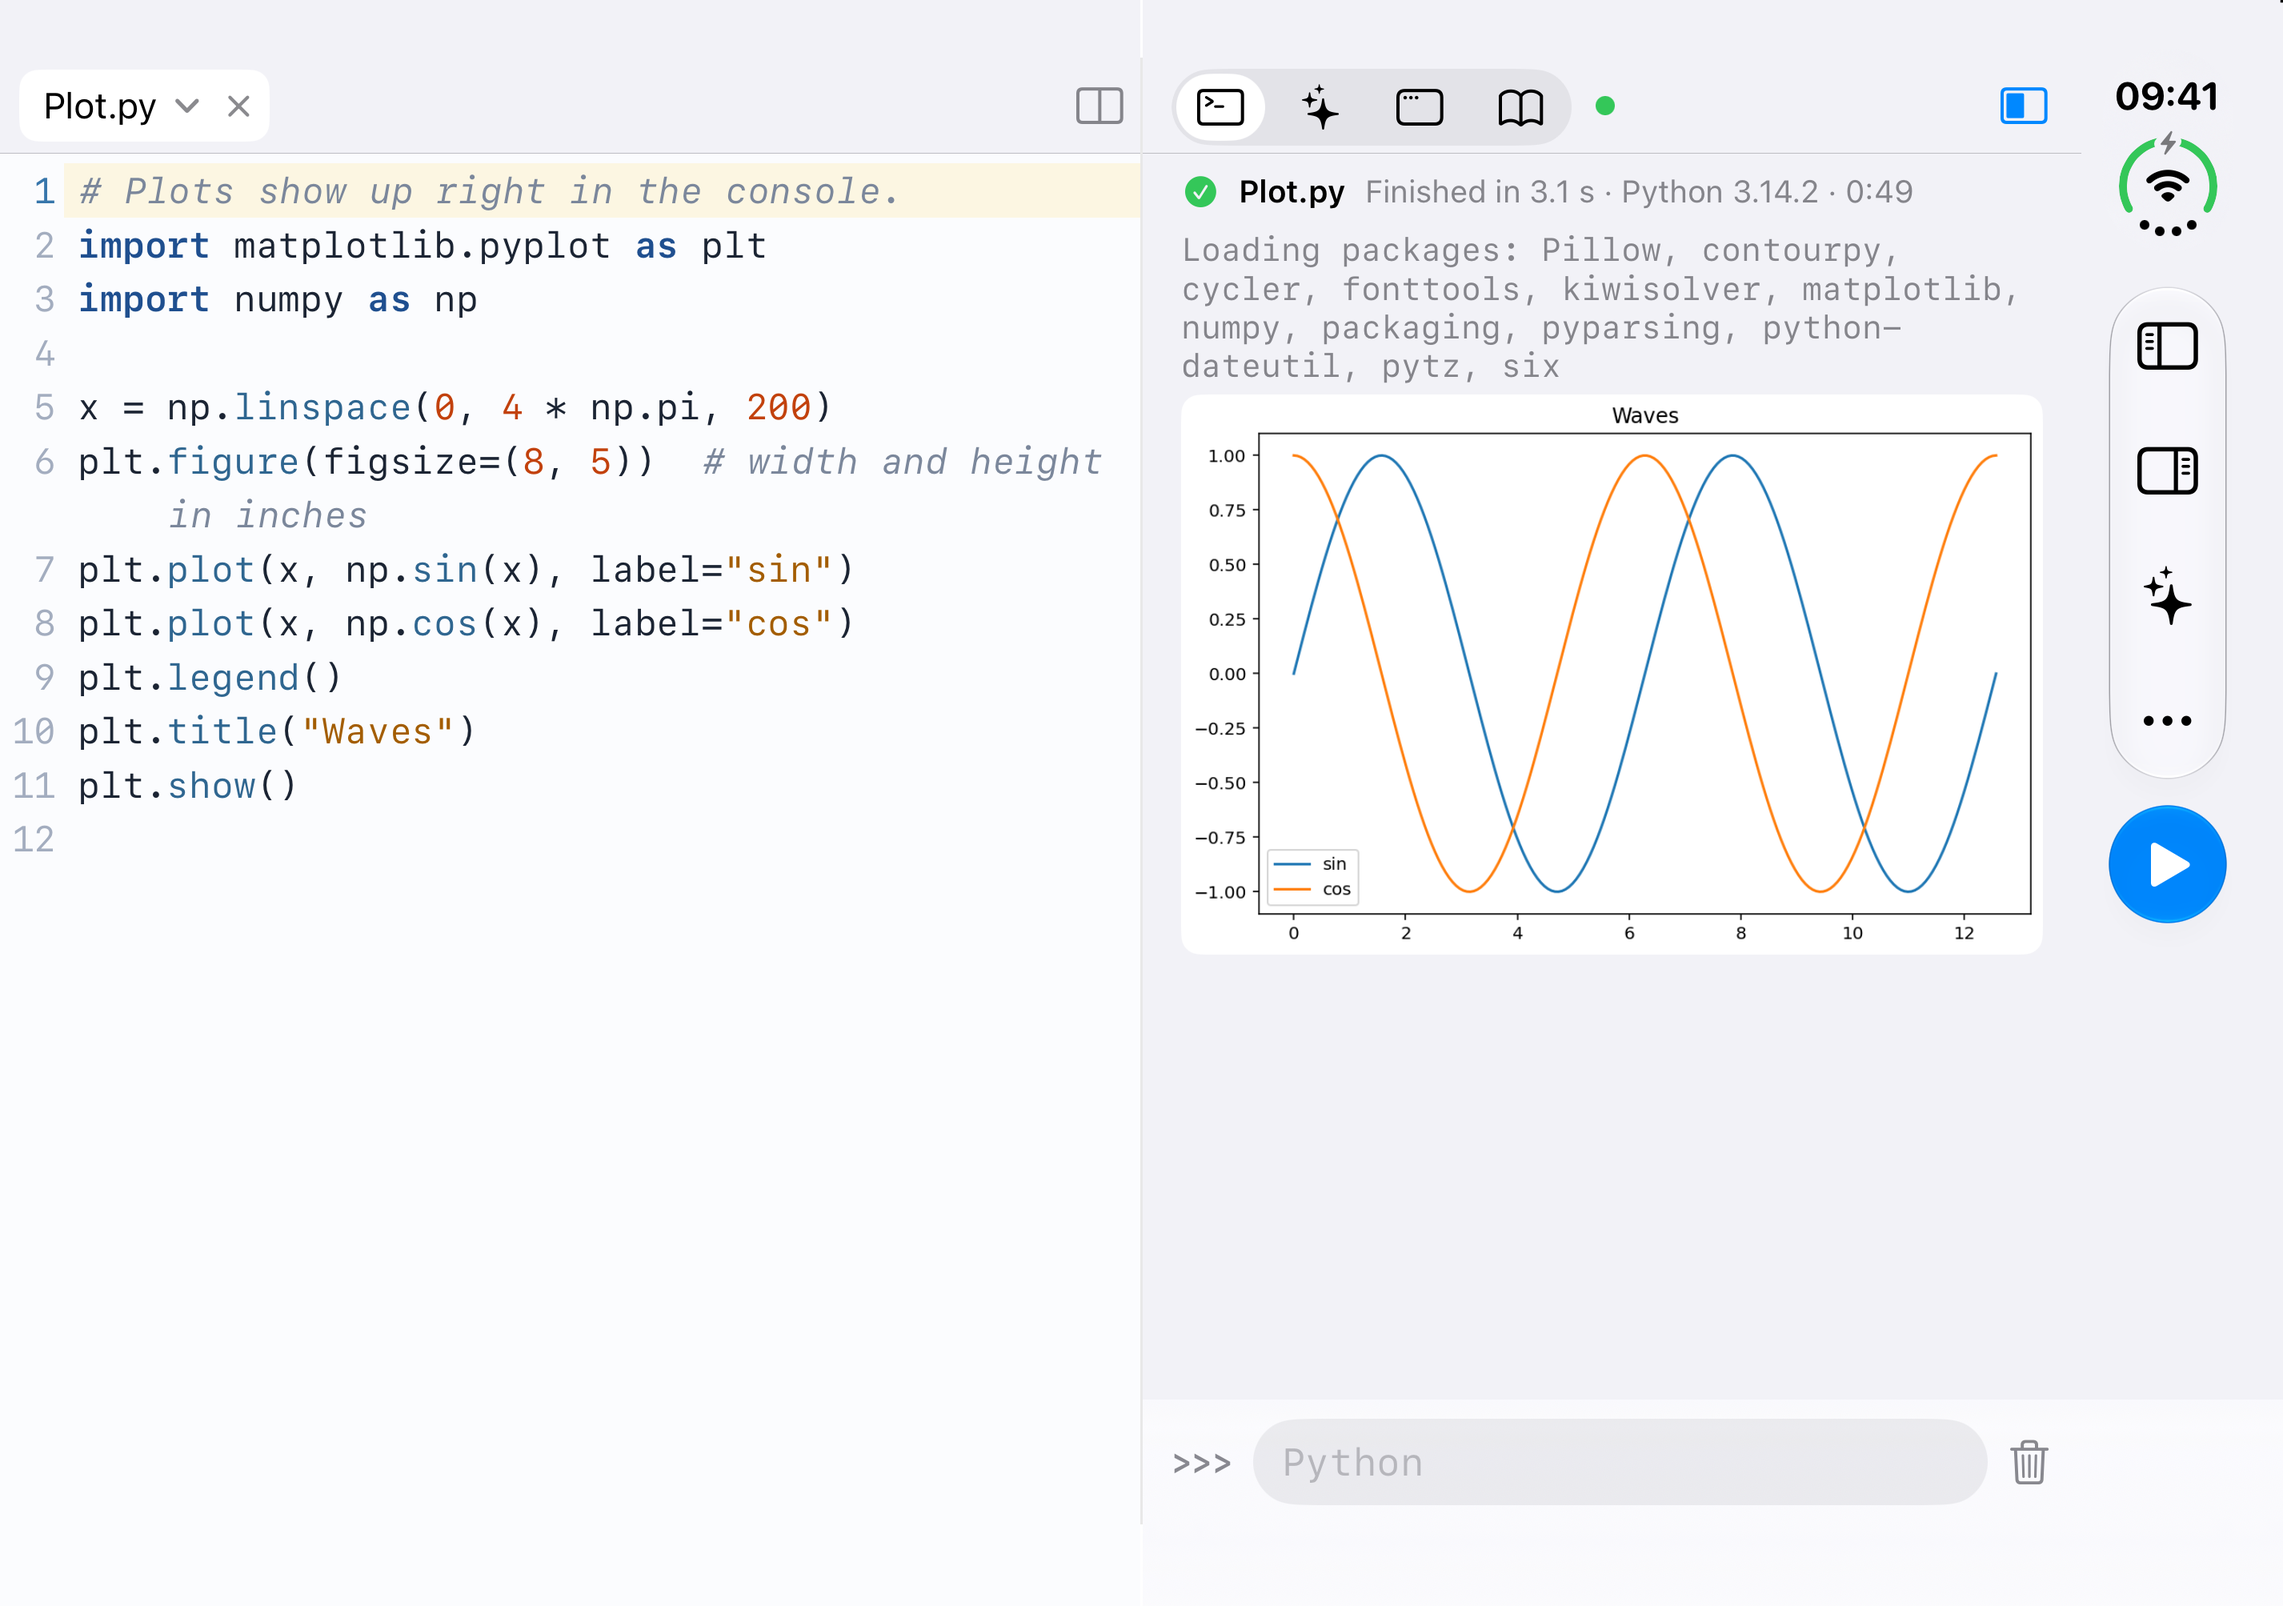
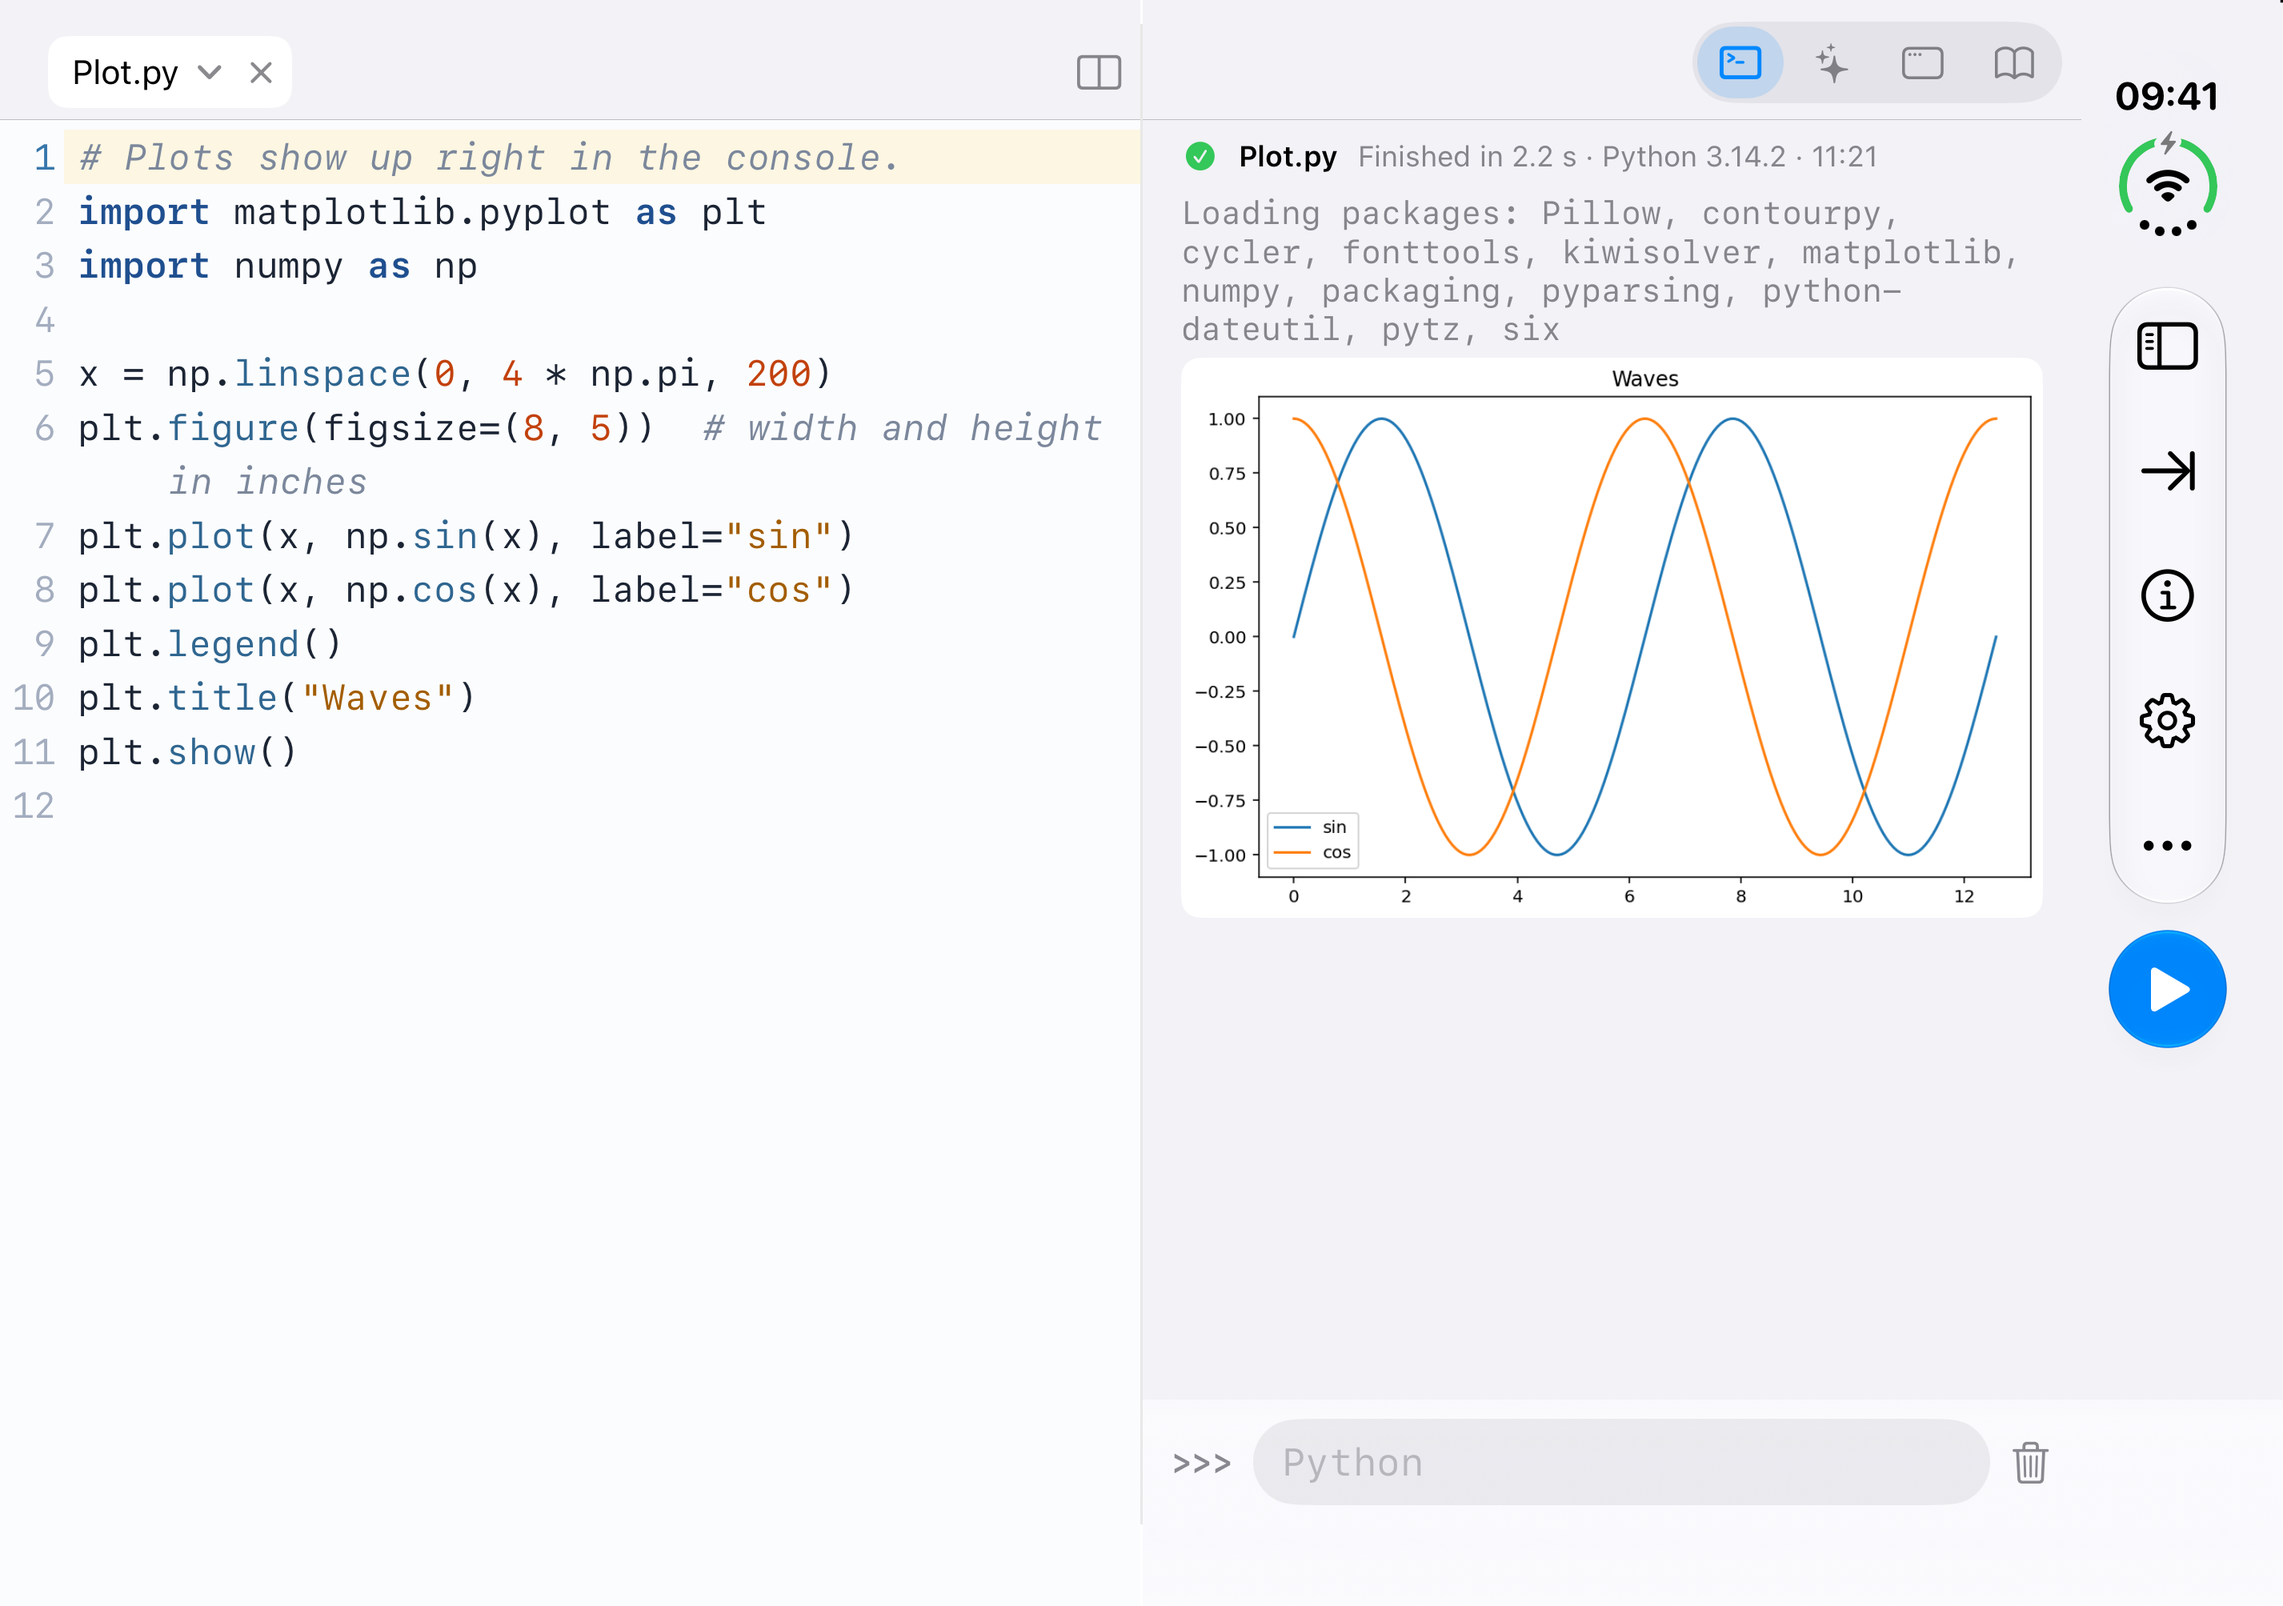
docs: retake the App Store screenshots and bring the README up to date
All iPhone, iPad and iPhone Duo screenshots after D61 and D62. The iPad docs scene opens a file next to the docs, and the Duo's files scene opens the sidebar (new sidebar=1 launch hook). The README covers the Duo, notebooks, Markdown, the docs, processes, the device modules and the wide layouts, and shows two Duo screenshots. D61 notes the four regressions fixed along the way.

diff --git a/app/ios/Sources/Shell/AppModel.swift b/app/ios/Sources/Shell/AppModel.swift
@@ -1360,7 +1360,7 @@ final class AppModel {
         toggleBreakpoint(c.path, line: c.line, text: c.text)
     }
 
-    // MARK: launch hooks for screenshots: open=<path>[&bp=<lines>][&split=<path>][&run][&cells][&top=<text>][&folder=<dir>][&pane=files|editor|console][&cursor=<line>:<col>][&focus[=console]][&type=<text, @@ for the cursor>][&agent[=accounts|conversations|demo]][&ask=<prompt>][&docs=<version>/<ref, # as %23>][&settings][&newfile=<dir>][&move=<path>][&trash]
+    // MARK: launch hooks for screenshots: open=<path>[&bp=<lines>][&split=<path>][&run][&cells][&top=<text>][&folder=<dir>][&sidebar=0|1][&pane=files|editor|console][&cursor=<line>:<col>][&focus[=console]][&type=<text, @@ for the cursor>][&agent[=accounts|conversations|demo]][&ask=<prompt>][&docs=<version>/<ref, # as %23>][&settings][&newfile=<dir>][&move=<path>][&trash]
 
     private func launchHooks(_ fragment: String) async {
         guard !fragment.hasPrefix("#selftest") else { return }
@@ -1404,7 +1404,7 @@ final class AppModel {
             _ = await editorCall(focused, "scrollToText", [text])
         }
         if let dir = hook["folder"] { route = [.folder(dir)] }
-        if hook["sidebar"] == "0" { sidebarVisible = false }
+        if let sidebar = hook["sidebar"] { sidebarVisible = sidebar != "0" } // a phone's starts closed (D61)
         switch hook["pane"] {
         case "console": if wide { consoleDocked = true } else { consoleDetent = .half }
         case "files": if !wide { route = [] }

diff --git a/README.md b/README.md
@@ -2,12 +2,14 @@
 
 **Terrarium – Python IDE with a coding agent.**
 
-A Pythonista-style Python IDE for iPhone and iPad: a native SwiftUI app that
-runs Python on the device ([Pyodide](https://pyodide.org/), CPython 3.14 in
-WebAssembly) and has a coding agent built in.
+A Pythonista-style Python IDE for iPhone, iPad and the foldable iPhone Duo:
+a native SwiftUI app that runs Python on the device
+([Pyodide](https://pyodide.org/), CPython 3.14 in WebAssembly) and has a
+coding agent built in.
 
 > A demo and research project, written largely with coding agents. It is
-> not on the App Store yet and not affiliated with Pythonista.
+> in TestFlight, not on the App Store yet, and not affiliated with
+> Pythonista.
 
 <p>
   <a href="app/appstore/screenshots/iphone/1-plot.png"><img src="app/appstore/screenshots/iphone/1-plot.png" width="24%" alt="Editor and console with an inline matplotlib plot"></a>
@@ -30,21 +32,32 @@ WebAssembly) and has a coding agent built in.
   <a href="app/appstore/screenshots/ipad/4-editor.png"><img src="app/appstore/screenshots/ipad/4-editor.png" width="49%" alt="iPad: completions from ty"></a>
 </p>
 
+<p>
+  <a href="app/appstore/screenshots/duo/2-agent.png"><img src="app/appstore/screenshots/duo/2-agent.png" width="49%" alt="iPhone Duo, open: the code and the agent on either side of the fold"></a>
+  <a href="app/appstore/screenshots/duo/1-app.png"><img src="app/appstore/screenshots/duo/1-app.png" width="49%" alt="iPhone Duo, open: the todo app next to its code"></a>
+</p>
+
 <sub>The App Store screenshots (all of them: <a href="app/appstore/screenshots">app/appstore/screenshots</a>),
-from <code>app/scripts/store-screenshots.sh</code> in the iPhone 18 Pro Max and
-iPad Pro 13-inch (M5) simulators, iOS 27. The agent's replies there are
-scripted; its tools really ran.</sub>
+from <code>app/scripts/store-screenshots.sh</code> in the iPhone 18 Pro Max,
+iPad Pro 13-inch (M5) and iPhone Duo simulators, iOS 27. The agent's replies
+there are scripted; its tools really ran.</sub>
 
 ## Features
 
-- **Python on the device**: CPython 3.14 through Pyodide. A streaming console
-  with `input()` and a `>>>` prompt, inline matplotlib plots, tracebacks that
-  link to the line, and a Stop that always works.
+- **Python on the device**: CPython 3.14 through Pyodide, and a 3.15
+  preview. A streaming console with `input()` and a `>>>` prompt, inline
+  matplotlib plots, tracebacks drawn as frames that link to the line, and a
+  Stop that always works. `multiprocessing` and `subprocess` run each
+  process in a worker of its own.
 - **Packages**: numpy, pandas, matplotlib and the rest of Pyodide's packages,
   plus pure-Python packages from PyPI. They are declared with PEP 723
   (`# /// script`, as with `uv run`) and cached for offline use.
-- **Editor**: CodeMirror with a key bar for touch typing, tabs, split view on
-  iPad, outline, go to line, find in folder, and hardware keyboard shortcuts.
+- **Editor**: CodeMirror with a key bar for touch typing, tabs, split view,
+  outline, go to line, find in folder, themes, and hardware keyboard
+  shortcuts.
+- **Notebooks and Markdown**: Jupyter notebooks and `# %%` cells run in a
+  kernel with rich output (plots, pandas tables, HTML). Markdown files show
+  as a preview, with links between files.
 - **Code intelligence**: [ruff](https://github.com/astral-sh/ruff) (lint and
   format) and [ty](https://github.com/astral-sh/ty) (type checking,
   completions, go to definition) run locally as WebAssembly.
@@ -52,7 +65,16 @@ scripted; its tools really ran.</sub>
   frame, and inspecting the frames after an error.
 - **Native apps from Python**: the `ui` module builds SwiftUI screens, lists,
   sheets, inputs and canvases with Solid-style signals. Turtle graphics draw
-  right in the console.
+  right in the console. Home Screen shortcuts run a program.
+- **The device from Python**: Pythonista's `clipboard`, `dialogs`,
+  `photos`, `location`, `motion`, `sound`, `speech`, `reminders` and
+  more.
+- **Documentation**: the Python docs of both versions and the app's own
+  modules, offline, with search; `help()` opens them.
+- **Layouts**: on iPad and the open iPhone Duo, one top row, a sidebar
+  with files, outline, find and problems, and the other half next to the
+  code: console, agent, the running app or the docs. On the Duo the fold
+  divides them.
 - **Files**: the app's Documents folder (also in the Files app) and linked
   folders from iCloud Drive or other apps. Programs read and write them, with
   `sqlite3` and all.

diff --git a/DECISIONS.md b/DECISIONS.md
@@ -2314,6 +2314,36 @@ Pro 11-inch simulator (iOS 27.0). The self-test (`--reset`) passes 87 of
 changes; both pass alone. Not seen: the open Duo in portrait (XCUIDevice
 doesn't turn the inner screen).
 
+Note (2026-10-24), two regressions found retaking the store screenshots:
+- **The editor scrolls past its end again.** The CSS rule that kept the
+  text's end above the home indicator replaced the theme's 40vh bottom
+  padding, so a short file hardly scrolled and a paused line in its lower
+  part stayed under the console (bisected to this decision's commit). The
+  padding is `40vh` plus the inset now, in the theme. Self-test:
+  `debugger_reveals_paused_line`.
+- **An iPad's sidebar starts open where it fits.** Its first decision
+  (`sidebarSlidesOver`, before the workspace's layout) assumed the other
+  half beside the code, so a portrait iPad started with the sidebar
+  closed. Until the layout says, the window's shape decides
+  (`panelSideBySide`).
+- **The other half keeps its frame when it moves at launch.** Moving the
+  docs half to the left in the first render made two slots at once, the
+  short-lived one newer; when it went it cleared the frame, and the half
+  stayed blank (the open Duo, no saved halves). All slots on screen are
+  kept now (`liveHalfSlots`): the newest has the place, and when it goes
+  the place goes back to one still there.
+- **The console half isn't dimmed by the sliding sidebar.** Only the
+  agent, docs and app reported their half's frame, so with the console the
+  dimming went to the window's edge and took the console's taps. The
+  console reports it too.
+
+Evidence: the iPhone Duo simulator (iOS 27.1, open in DeviceHub,
+landscape), the iPhone 18 Pro Max and iPad Pro 13-inch (M5) simulators
+(iOS 27.0). The self-test (`--reset`) passes on the iPhone, with the
+known flaky steps (`help_opens_docs`, `editor_keyboard_from_native`)
+failing now and then; on the iPad `keybar_only_with_software_keyboard`
+fails, as it does without these changes.
+
 ## D62: Narrow layouts show Go to, Find and Problems instead of a title
 
 2026-10-23 - Accepted

diff --git a/app/appstore/README.md b/app/appstore/README.md
@@ -43,10 +43,12 @@ to do by hand in App Store Connect, and the open risks for review.
   - iPhone (9): plot, agent, editor with a ty diagnostic, notebook, ui app,
     debugger, turtle, docs, files.
   - iPad (7): split view, agent, notebook, completions, debugger, the
-    todo app next to its code (D59), docs.
+    todo app next to its code (D59), docs next to a file that uses
+    `json`. The files sidebar is open in all but the todo app.
   - iPhone Duo, inner screen (6, 2853x2007, `store-screenshots.sh duo`):
     the todo app, the agent, a plot, the docs (left) each beside the code
-    across the fold, split view at the fold, files with editor and console.
+    across the fold, split view at the fold, the files sidebar slid over the
+    code next to the console.
     Open the Duo in DeviceHub first: nothing headless opens it, and the
     script leaves its locale alone (a reboot closes it), so the clock may be
     24-hour. Not checked: whether App Store Connect has a slot for the

diff --git a/app/README.md b/app/README.md
@@ -219,9 +219,9 @@ apps are native views (D30).
   - Long-press a line number to set a breakpoint. Long-press it again to
     disable or remove it.
   - Run as usual: the program stops there and the editor turns read-only
-    with the line highlighted.
-  - Step over, in or out from the console header (iPhone) or the nav bar
-    (iPad), and Continue from the Run button.
+    with the line highlighted and scrolled into view.
+  - Step over, in or out from the console header (iPhone) or the top row
+    (iPad, D61), and Continue from the Run button.
   - The console shows the stack and the variables. Tap a name in the editor
     for its value, and `>>>` runs in the paused function.
   - Pause (in the console header) stops a running program, e.g. an endless
